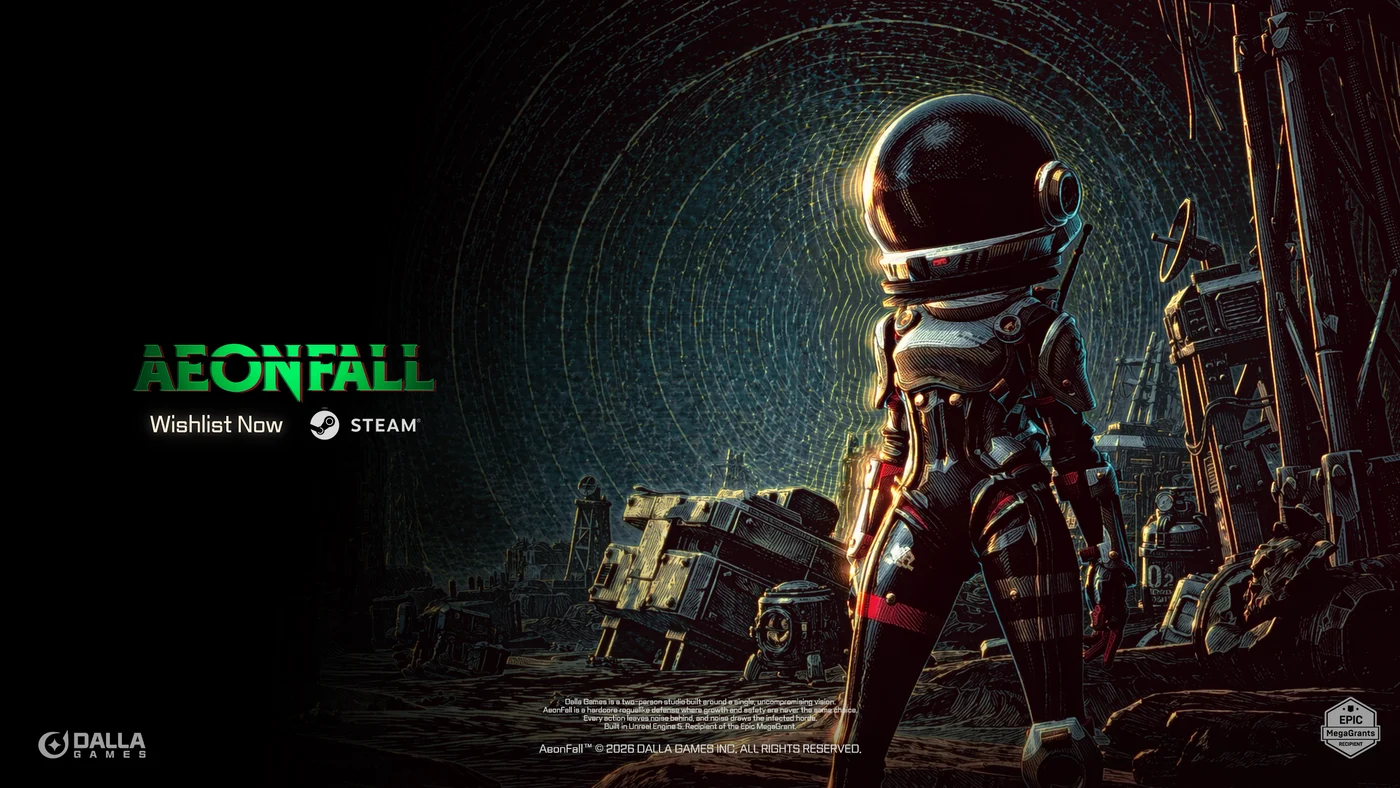
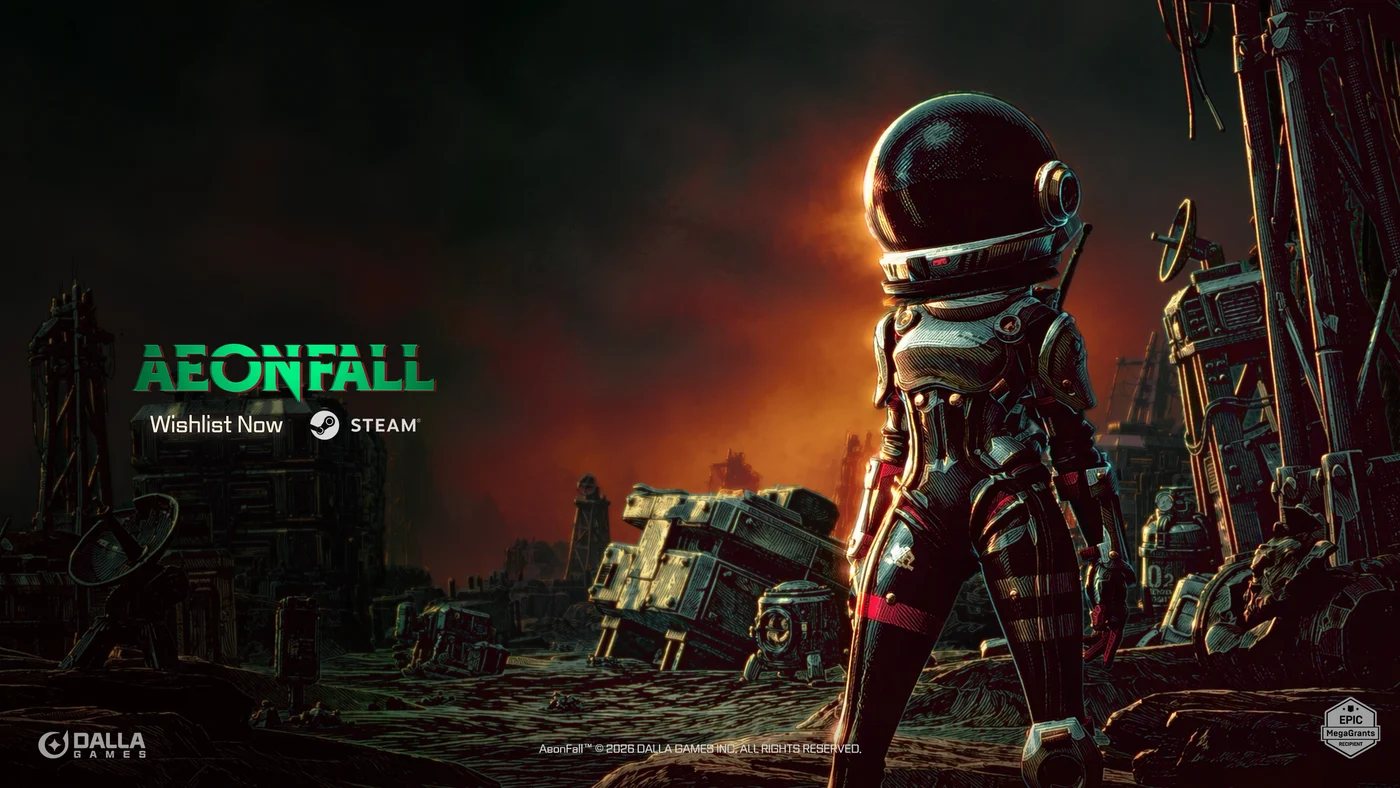
New solo-astronaut key art for the trailer thumbnail and link preview
Both places that used the lone-protagonist poster now use the revised
Title_26_07. Cache stamps bumped (thumbnail ?v=5, og-image ?v=20261027).

diff --git a/index.html b/index.html
@@ -31,7 +31,7 @@
   <!-- ?v= 는 캐시 무효화용 버전. og 이미지를 교체할 때마다 이 숫자를 바꿔야
        SNS(카카오톡/페이스북/디스코드 등)가 새 이미지를 다시 가져온다.
        바꾸지 않으면 이미지를 교체해도 예전 이미지가 계속 나온다. -->
-  <meta property="og:image" content="https://dallagames.com/images/og-image.jpg?v=20261019" />
+  <meta property="og:image" content="https://dallagames.com/images/og-image.jpg?v=20261027" />
   <meta property="og:image:width" content="1200" />
   <meta property="og:image:height" content="675" />
   <meta property="og:url" content="https://dallagames.com/" />
@@ -46,7 +46,7 @@
   <meta name="twitter:card" content="summary_large_image" />
   <meta name="twitter:title" content="Dalla Games Official Website" />
   <meta name="twitter:description" content="Hardcore Roguelike Defense. Wishlist AeonFall on Steam." />
-  <meta name="twitter:image" content="https://dallagames.com/images/og-image.jpg?v=20261019" />
+  <meta name="twitter:image" content="https://dallagames.com/images/og-image.jpg?v=20261027" />
   <meta name="twitter:image:alt" content="AeonFall — Hardcore Roguelike Defense by Dalla Games" />
 
   <!-- 구조화 데이터(JSON-LD): 검색엔진에게 "이 페이지는 무엇에 관한 것인가"를 기계가 읽는 형식으로 알려준다.
@@ -230,33 +230,33 @@
 
   <!-- css/js 뒤의 ?v= 는 캐시 무효화용 버전. 파일을 고치면 이 숫자를 함께 올린다.
        (안 올리면 방문자 브라우저가 최대 10분간 옛 파일을 그대로 쓴다) -->
-  <link rel="stylesheet" href="style.css?v=39" />
+  <link rel="stylesheet" href="style.css?v=40" />
 
   <!-- 히어로 특수효과: 스캐너 스윕 리빌 (기존 코드와 분리된 추가 파일)
        JS는 head에서 동기 로드 — 첫 페인트 전에 스캔 커버를 씌워 깜빡임(FOUC)을 막는다. -->
-  <link rel="stylesheet" href="hero-fx.css?v=39" />
-  <script src="hero-fx.js?v=39"></script>
+  <link rel="stylesheet" href="hero-fx.css?v=40" />
+  <script src="hero-fx.js?v=40"></script>
   <!-- 히어로 배경 영상 레이어 -->
-  <link rel="stylesheet" href="hero-bg-swap.css?v=39" />
+  <link rel="stylesheet" href="hero-bg-swap.css?v=40" />
 
   <!-- 마우스 커서 잔상(트레일) 스타일 — 스크립트는 body 끝에서 로드 -->
-  <link rel="stylesheet" href="cursor-trail.css?v=39" />
+  <link rel="stylesheet" href="cursor-trail.css?v=40" />
 
   <!-- 다국어(로컬라이제이션) 국기 버튼 스타일 — 스크립트는 body 끝에서 로드 -->
-  <link rel="stylesheet" href="i18n.css?v=39" />
+  <link rel="stylesheet" href="i18n.css?v=40" />
 
   <!-- 추가 섹션(FAQ) 스타일 -->
-  <link rel="stylesheet" href="enhancements.css?v=39" />
+  <link rel="stylesheet" href="enhancements.css?v=40" />
   <!-- 섹션 배경: 인게임 팝업 홀로그램 (빼려면 이 줄만 지운다) -->
-  <link rel="stylesheet" href="sections-bg.css?v=39" />
+  <link rel="stylesheet" href="sections-bg.css?v=40" />
   <!-- 섹션 높이 + 스크롤 스냅, PC 전용 (빼려면 이 줄만 지운다) -->
-  <link rel="stylesheet" href="sections-snap.css?v=39" />
+  <link rel="stylesheet" href="sections-snap.css?v=40" />
 
   <!-- 방문자 분석(GA4) + 스팀 위시리스트 클릭 추적.
        head 에 두는 이유: 아주 짧게 머물다 나가는 방문도 집계되게 하기 위함.
        내부에서 gtag 를 async 로 불러오므로 렌더링은 막지 않는다.
        측정 ID 를 넣기 전까지는 아무 것도 하지 않는다 → analytics.js 상단 참고. -->
-  <script src="analytics.js?v=39"></script>
+  <script src="analytics.js?v=40"></script>
 </head>
 <body>
 
@@ -750,15 +750,15 @@
     </p>
   </footer>
 
-  <script src="script.js?v=39"></script>
+  <script src="script.js?v=40"></script>
   <!-- 합성 사운드 효과 (타이핑/CRT/스팀 버튼) — 기존 코드와 분리된 추가 파일 -->
-  <script src="sfx.js?v=39"></script>
+  <script src="sfx.js?v=40"></script>
   <!-- 마우스 커서 잔상(트레일) — 기존 코드와 분리된 추가 파일 -->
-  <script src="cursor-trail.js?v=39"></script>
+  <script src="cursor-trail.js?v=40"></script>
   <!-- 다국어(로컬라이제이션) — 국기 클릭 시 지정 영역 언어 전환 -->
-  <script src="i18n.js?v=39"></script>
+  <script src="i18n.js?v=40"></script>
 
   <!-- 히어로 배경 영상: 데스크톱에서만 내려받아 재생 -->
-  <script src="hero-video.js?v=39"></script>
+  <script src="hero-video.js?v=40"></script>
 </body>
 </html>

diff --git a/privacy.html b/privacy.html
@@ -10,7 +10,7 @@
   <link rel="icon" type="image/png" href="images/favicon.png" />
 
   <!-- 폰트·색상 변수·커스텀 커서는 본 사이트 스타일을 그대로 쓴다 -->
-  <link rel="stylesheet" href="style.css?v=39" />
+  <link rel="stylesheet" href="style.css?v=40" />
 
   <style>
     /* ---- 이 페이지 전용: 읽기 편한 문서 레이아웃 ---- */

diff --git a/style.css b/style.css
@@ -881,7 +881,7 @@ html.menu-open { overflow: hidden; }
 .vf-thumb {
   position: absolute;
   inset: 0;
-  background: url("images/youtube.webp?v=4") center / cover no-repeat;
+  background: url("images/youtube.webp?v=5") center / cover no-repeat;
   transition: transform 0.4s ease;     /* OUR GAME 이미지와 같은 속도 */
 }
 .video-facade:hover .vf-thumb,
